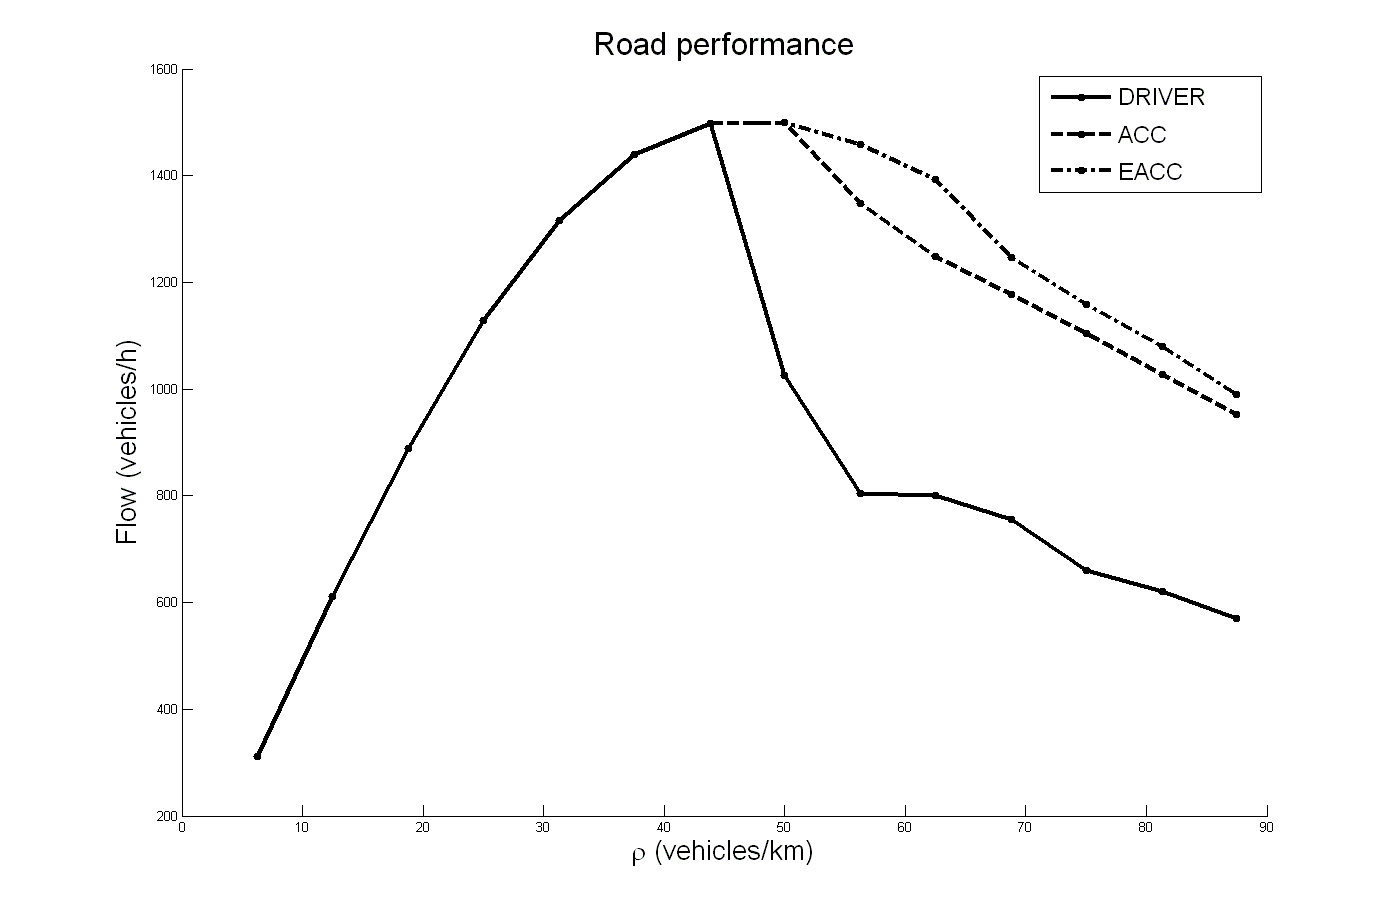
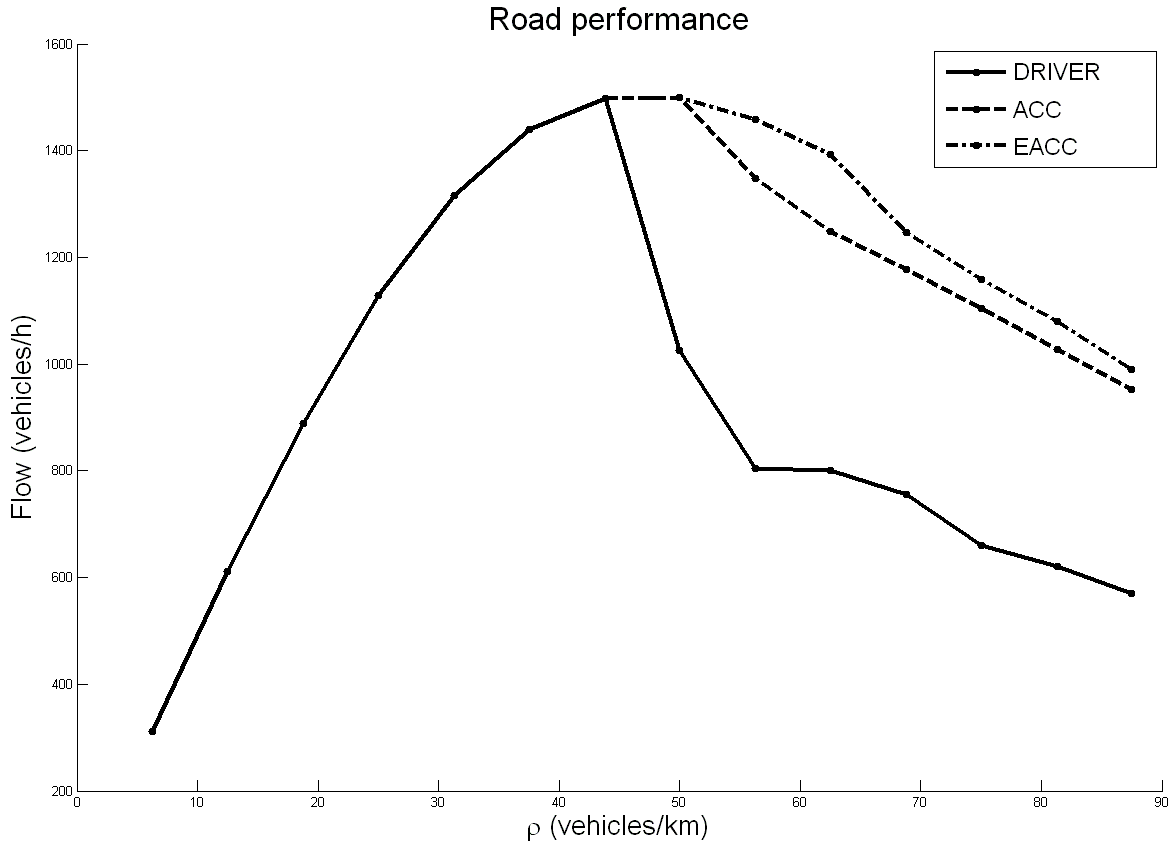
?ndringar p? bilder och lite sm?tt i texterna

diff --git a/Report/acc.tex b/Report/acc.tex
@@ -10,7 +10,7 @@ is the increased comfort of the driver. A human
 driver is mostly not very good at estimating the distance to or the velocity of the car
 in front. This can cause unneccessary brakes or accelerations. Also because of
 some drivers behaviour, time headway between cars is shorter than a normal
-driver require to adapt to changes in traffic flow \cite{acc}\\\\
+driver require to adapt to changes in traffic flow \cite{acc}.\\\\
 
 % Nice intro EACC, snyggt sammanbundet!
 One ability that human drivers have but ACC lack is the possibility to look
